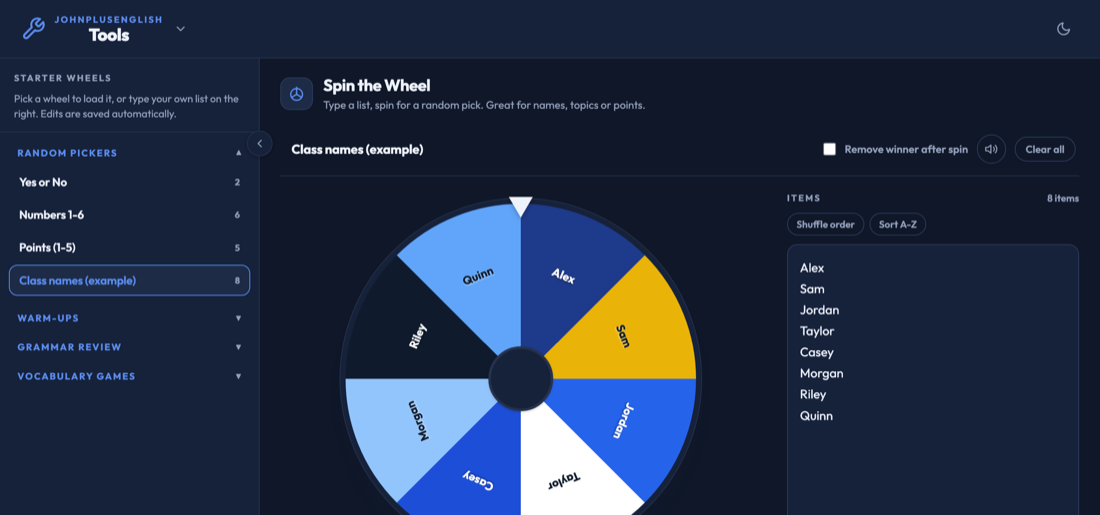
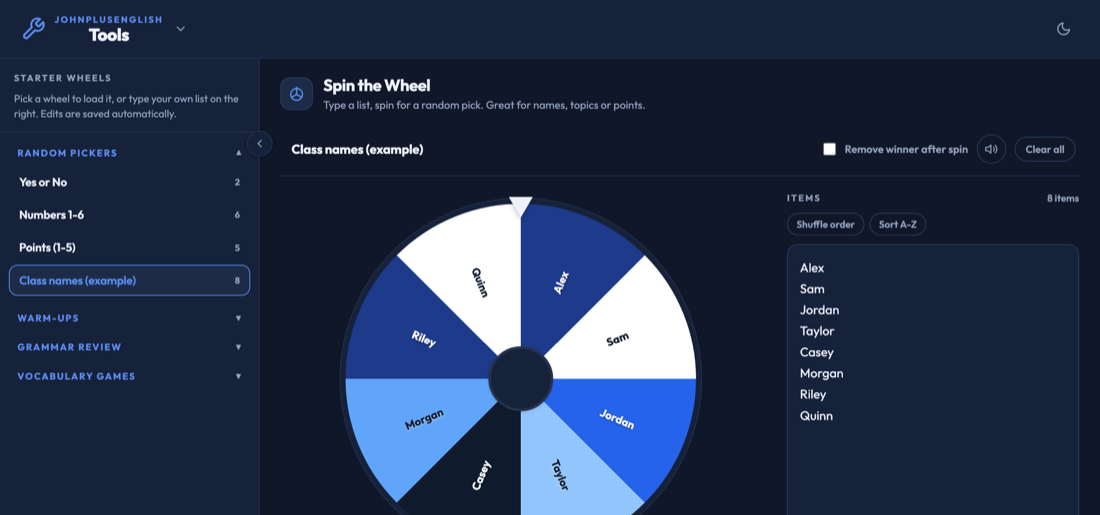
Spin the Wheel: fix cluttered labels, drop yellow from the palette
Labels were rotated tangentially, so long presets like the icebreaker
topics ran sideways across neighbouring slices and overlapped. Rotate
radially instead (along the spoke, with a 180 flip on the left half so
nothing reads upside down) and size max-width off the actual hub/rim
gap. Palette is blues and white only now, no gold accent.

Changed region(s): [[0.3091, 0.3728, 0.6491, 1.0], [0.5564, 0.7767, 0.5873, 0.8388]]

diff --git a/src/spin-wheel.html b/src/spin-wheel.html
@@ -63,7 +63,7 @@ main{overflow:visible;min-width:0}
 .sw-pointer{position:absolute;top:-2px;left:50%;transform:translateX(-50%);width:0;height:0;border-left:14px solid transparent;border-right:14px solid transparent;border-top:24px solid var(--ink);z-index:3;filter:drop-shadow(0 2px 3px rgba(0,0,0,.25))}
 .sw-wheel{position:absolute;inset:0;border-radius:50%;box-shadow:0 20px 44px -20px rgba(20,30,60,.35);border:6px solid var(--card);outline:1px solid var(--line)}
 .sw-labels{position:absolute;inset:0;pointer-events:none}
-.sw-label-text{position:absolute;font-weight:700;white-space:nowrap;max-width:130px;overflow:hidden;text-overflow:ellipsis;text-align:center;pointer-events:none}
+.sw-label-text{position:absolute;font-weight:700;white-space:nowrap;overflow:hidden;text-overflow:ellipsis;text-align:center;pointer-events:none}
 .sw-hub{position:absolute;left:50%;top:50%;width:18%;height:18%;transform:translate(-50%,-50%);border-radius:50%;background:var(--card);border:3px solid var(--line);z-index:2;box-shadow:0 1px 3px rgba(0,0,0,.15)}
 .sw-empty-wheel{position:absolute;inset:0;border-radius:50%;background:var(--soft);border:2px dashed var(--soft-line);display:flex;align-items:center;justify-content:center;text-align:center;color:var(--muted);font-size:13px;padding:24px}
 .sw-empty-wheel[hidden]{display:none}
@@ -175,14 +175,13 @@ var SW_PRESETS = [
   {id: 10, cat: "Vocabulary games", title: "Word types", items: ["Noun", "Verb", "Adjective", "Adverb", "Preposition", "Phrasal verb", "Idiom", "Collocation"]}
 ];
 /* Blues and whites (the site's own palette) with a gold accent for pop,
-   rather than a rainbow. Each entry carries its own text colour: the pale
-   and gold slices need dark ink text, the deep blues need white. */
+   rather than a rainbow. Each entry carries its own text colour, alternating
+   dark/light so neighbouring slices always contrast: the pale slices need
+   dark ink text, the deep blues need white. */
 var SW_COLORS = [
   {bg: '#1e3a8a', text: '#ffffff'},
-  {bg: '#eab308', text: '#0f1b2d'},
-  {bg: '#2563eb', text: '#ffffff'},
   {bg: '#ffffff', text: '#0f1b2d'},
-  {bg: '#1d4ed8', text: '#ffffff'},
+  {bg: '#2563eb', text: '#ffffff'},
   {bg: '#93c5fd', text: '#0f1b2d'},
   {bg: '#0f1b2d', text: '#ffffff'},
   {bg: '#60a5fa', text: '#0f1b2d'}
@@ -377,19 +376,29 @@ function swRenderWheel() {
 
   var wrap = document.getElementById('swWheelWrap');
   var cx = wrap.clientWidth / 2, cy = wrap.clientHeight / 2;
-  var R = Math.min(cx, cy) * 0.62;
-  var fontSize = n > 16 ? 10 : (n > 10 ? 11.5 : 13.5);
+  var R = Math.min(cx, cy) * 0.58;
+  var hubR = Math.min(cx, cy) * 0.09;
+  var fontSize = n > 16 ? 9.5 : (n > 10 ? 11 : 13);
+  /* Text runs RADIALLY (along the spoke), not tangentially (across it) — a
+     tangential label's length eats into neighbouring slices at the same
+     radius, which is what made long presets like "Icebreaker topics"
+     unreadable. Radial length only competes with the hub and the rim, so
+     max-width is capped by whichever of those is tighter. */
+  var maxWidthPx = Math.max(46, Math.min(R - hubR, cx - R) * 1.85 - 8);
 
   labels.innerHTML = entries.map(function(e, i) {
     var center = (i + 0.5) * sliceAngle;
     var rad = center * Math.PI / 180;
     var x = cx + Math.sin(rad) * R;
     var y = cy - Math.cos(rad) * R;
+    var rot = center - 90;
+    if (center > 180 && center < 360) rot += 180;
     var swatch = SW_COLORS[i % SW_COLORS.length];
     var shadow = swatch.text === '#ffffff' ? '0 1px 2px rgba(0,0,0,.4)' : '0 1px 2px rgba(255,255,255,.5)';
     return '<span class="sw-label-text" style="left:' + x.toFixed(1) + 'px;top:' + y.toFixed(1) + 'px;' +
-      'font-size:' + fontSize + 'px;color:' + swatch.text + ';text-shadow:' + shadow + ';' +
-      'transform:translate(-50%,-50%) rotate(' + center.toFixed(2) + 'deg)">' +
+      'font-size:' + fontSize + 'px;max-width:' + maxWidthPx.toFixed(0) + 'px;' +
+      'color:' + swatch.text + ';text-shadow:' + shadow + ';' +
+      'transform:translate(-50%,-50%) rotate(' + rot.toFixed(2) + 'deg)">' +
       swEsc(e.text) + '</span>';
   }).join('');
 }

diff --git a/tools/spin-wheel.html b/tools/spin-wheel.html
@@ -69,7 +69,7 @@ main{overflow:visible;min-width:0}
 .sw-pointer{position:absolute;top:-2px;left:50%;transform:translateX(-50%);width:0;height:0;border-left:14px solid transparent;border-right:14px solid transparent;border-top:24px solid var(--ink);z-index:3;filter:drop-shadow(0 2px 3px rgba(0,0,0,.25))}
 .sw-wheel{position:absolute;inset:0;border-radius:50%;box-shadow:0 20px 44px -20px rgba(20,30,60,.35);border:6px solid var(--card);outline:1px solid var(--line)}
 .sw-labels{position:absolute;inset:0;pointer-events:none}
-.sw-label-text{position:absolute;font-weight:700;white-space:nowrap;max-width:130px;overflow:hidden;text-overflow:ellipsis;text-align:center;pointer-events:none}
+.sw-label-text{position:absolute;font-weight:700;white-space:nowrap;overflow:hidden;text-overflow:ellipsis;text-align:center;pointer-events:none}
 .sw-hub{position:absolute;left:50%;top:50%;width:18%;height:18%;transform:translate(-50%,-50%);border-radius:50%;background:var(--card);border:3px solid var(--line);z-index:2;box-shadow:0 1px 3px rgba(0,0,0,.15)}
 .sw-empty-wheel{position:absolute;inset:0;border-radius:50%;background:var(--soft);border:2px dashed var(--soft-line);display:flex;align-items:center;justify-content:center;text-align:center;color:var(--muted);font-size:13px;padding:24px}
 .sw-empty-wheel[hidden]{display:none}
@@ -348,14 +348,13 @@ var SW_PRESETS = [
   {id: 10, cat: "Vocabulary games", title: "Word types", items: ["Noun", "Verb", "Adjective", "Adverb", "Preposition", "Phrasal verb", "Idiom", "Collocation"]}
 ];
 /* Blues and whites (the site's own palette) with a gold accent for pop,
-   rather than a rainbow. Each entry carries its own text colour: the pale
-   and gold slices need dark ink text, the deep blues need white. */
+   rather than a rainbow. Each entry carries its own text colour, alternating
+   dark/light so neighbouring slices always contrast: the pale slices need
+   dark ink text, the deep blues need white. */
 var SW_COLORS = [
   {bg: '#1e3a8a', text: '#ffffff'},
-  {bg: '#eab308', text: '#0f1b2d'},
-  {bg: '#2563eb', text: '#ffffff'},
   {bg: '#ffffff', text: '#0f1b2d'},
-  {bg: '#1d4ed8', text: '#ffffff'},
+  {bg: '#2563eb', text: '#ffffff'},
   {bg: '#93c5fd', text: '#0f1b2d'},
   {bg: '#0f1b2d', text: '#ffffff'},
   {bg: '#60a5fa', text: '#0f1b2d'}
@@ -550,19 +549,29 @@ function swRenderWheel() {
 
   var wrap = document.getElementById('swWheelWrap');
   var cx = wrap.clientWidth / 2, cy = wrap.clientHeight / 2;
-  var R = Math.min(cx, cy) * 0.62;
-  var fontSize = n > 16 ? 10 : (n > 10 ? 11.5 : 13.5);
+  var R = Math.min(cx, cy) * 0.58;
+  var hubR = Math.min(cx, cy) * 0.09;
+  var fontSize = n > 16 ? 9.5 : (n > 10 ? 11 : 13);
+  /* Text runs RADIALLY (along the spoke), not tangentially (across it) — a
+     tangential label's length eats into neighbouring slices at the same
+     radius, which is what made long presets like "Icebreaker topics"
+     unreadable. Radial length only competes with the hub and the rim, so
+     max-width is capped by whichever of those is tighter. */
+  var maxWidthPx = Math.max(46, Math.min(R - hubR, cx - R) * 1.85 - 8);
 
   labels.innerHTML = entries.map(function(e, i) {
     var center = (i + 0.5) * sliceAngle;
     var rad = center * Math.PI / 180;
     var x = cx + Math.sin(rad) * R;
     var y = cy - Math.cos(rad) * R;
+    var rot = center - 90;
+    if (center > 180 && center < 360) rot += 180;
     var swatch = SW_COLORS[i % SW_COLORS.length];
     var shadow = swatch.text === '#ffffff' ? '0 1px 2px rgba(0,0,0,.4)' : '0 1px 2px rgba(255,255,255,.5)';
     return '<span class="sw-label-text" style="left:' + x.toFixed(1) + 'px;top:' + y.toFixed(1) + 'px;' +
-      'font-size:' + fontSize + 'px;color:' + swatch.text + ';text-shadow:' + shadow + ';' +
-      'transform:translate(-50%,-50%) rotate(' + center.toFixed(2) + 'deg)">' +
+      'font-size:' + fontSize + 'px;max-width:' + maxWidthPx.toFixed(0) + 'px;' +
+      'color:' + swatch.text + ';text-shadow:' + shadow + ';' +
+      'transform:translate(-50%,-50%) rotate(' + rot.toFixed(2) + 'deg)">' +
       swEsc(e.text) + '</span>';
   }).join('');
 }
